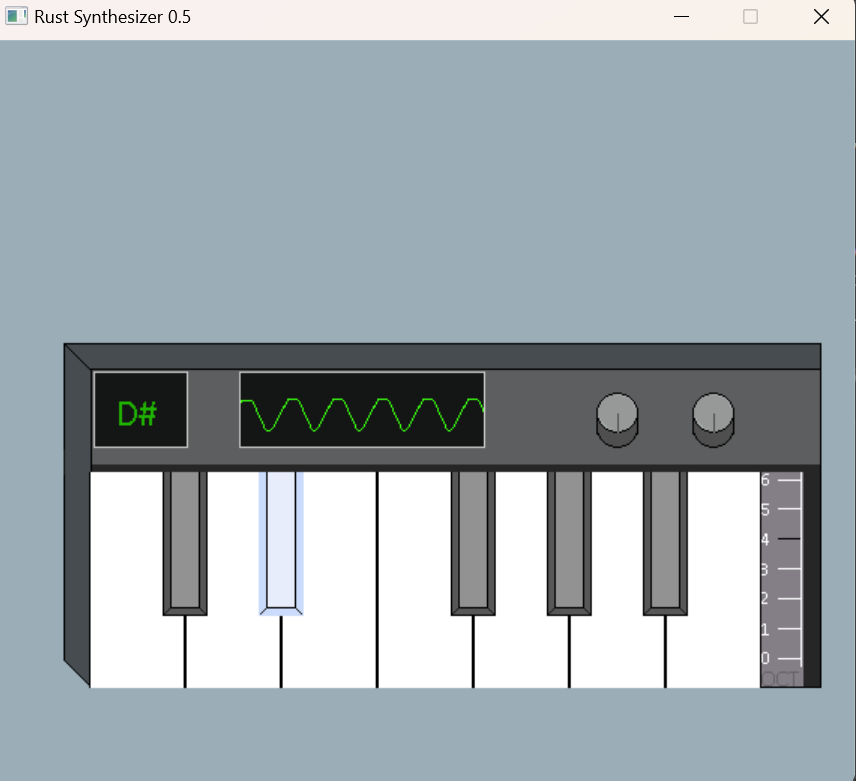
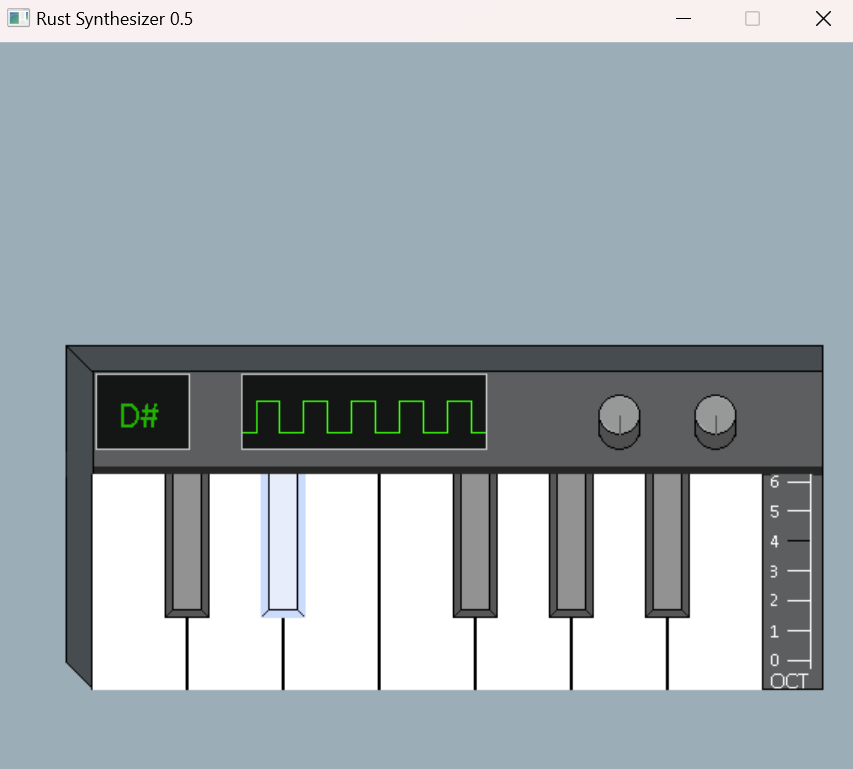
[GUI] Improve assets for rack and octave fader

Changed region(s): [[0.061, 0.4369, 0.9754, 0.9051], [0.0, 0.0, 1.0, 0.0624], [0.9754, 0.9987, 1.0, 1.0]]

diff --git a/src/state/utils.rs b/src/state/utils.rs
@@ -256,7 +256,7 @@ pub fn draw_pressed_key_sprite(sprites: &Sprites, window_buffer: &mut Vec<u32>, 
 /// - `sprites`: A reference to the `Sprites` struct containing all the sprite images.
 /// - `window_buffer`: A mutable reference to the buffer representing the window's pixels.
 pub fn draw_octave_fader_sprite(octave: i32, sprites: &Sprites, window_buffer: &mut Vec<u32>) {
-    draw_sprite(8 * sprites.keys[KEY_PRESSED].width as usize,
+    draw_sprite(8 * sprites.keys[KEY_PRESSED].width as usize + 5,
                 2 * sprites.keys[KEY_PRESSED].height as usize,
                 &sprites.octave_fader[octave as usize], window_buffer, WINDOW_WIDTH);
 }
